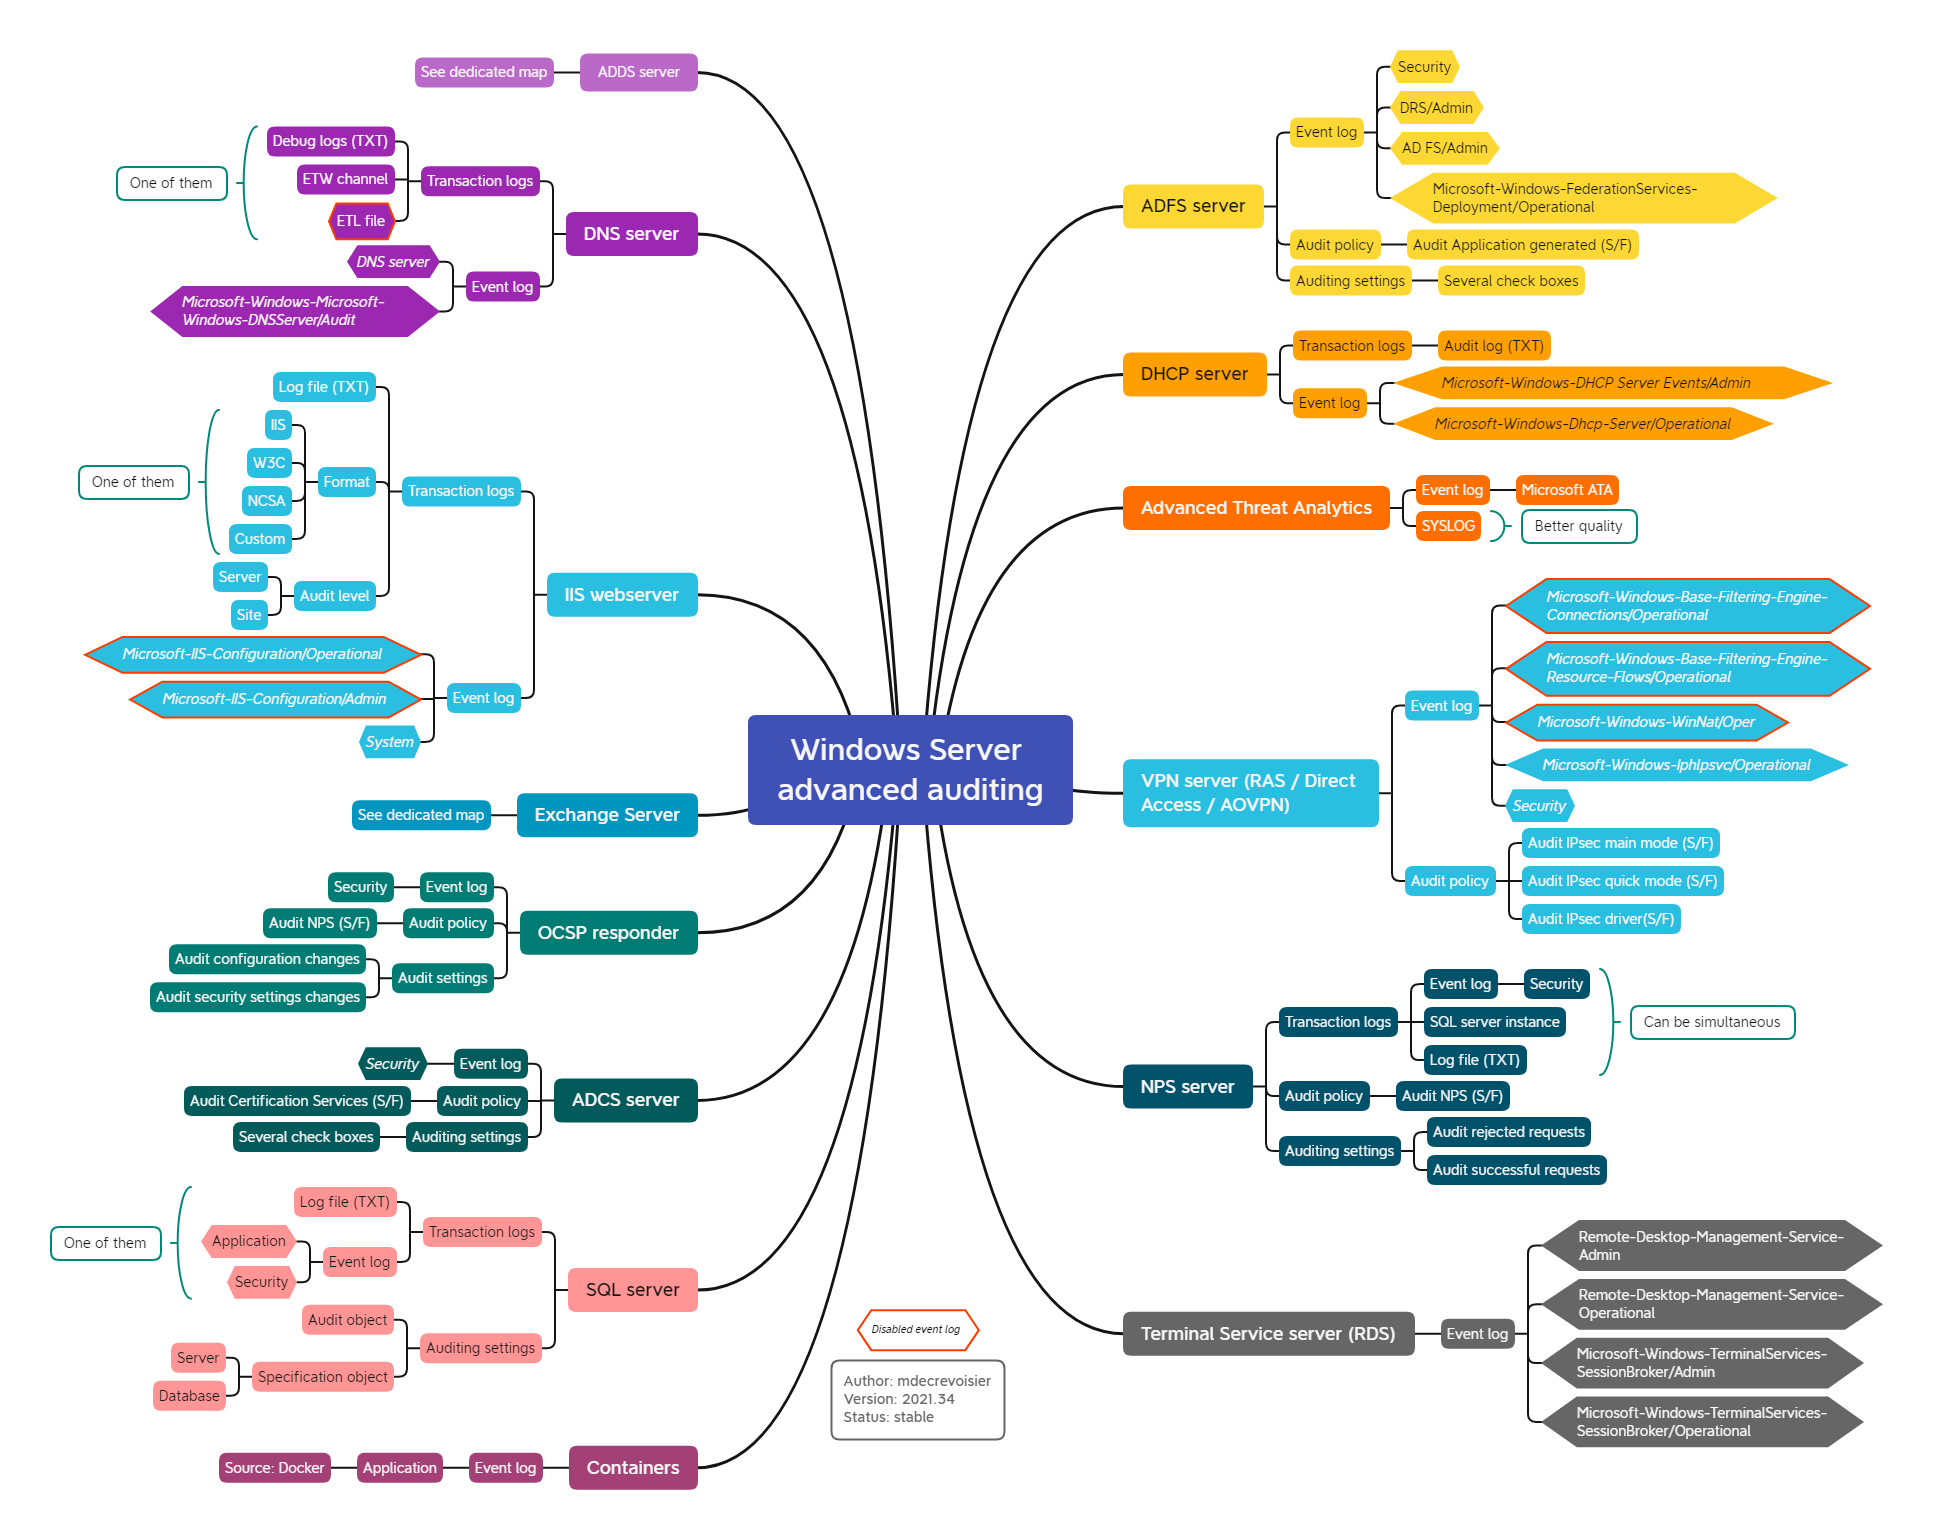
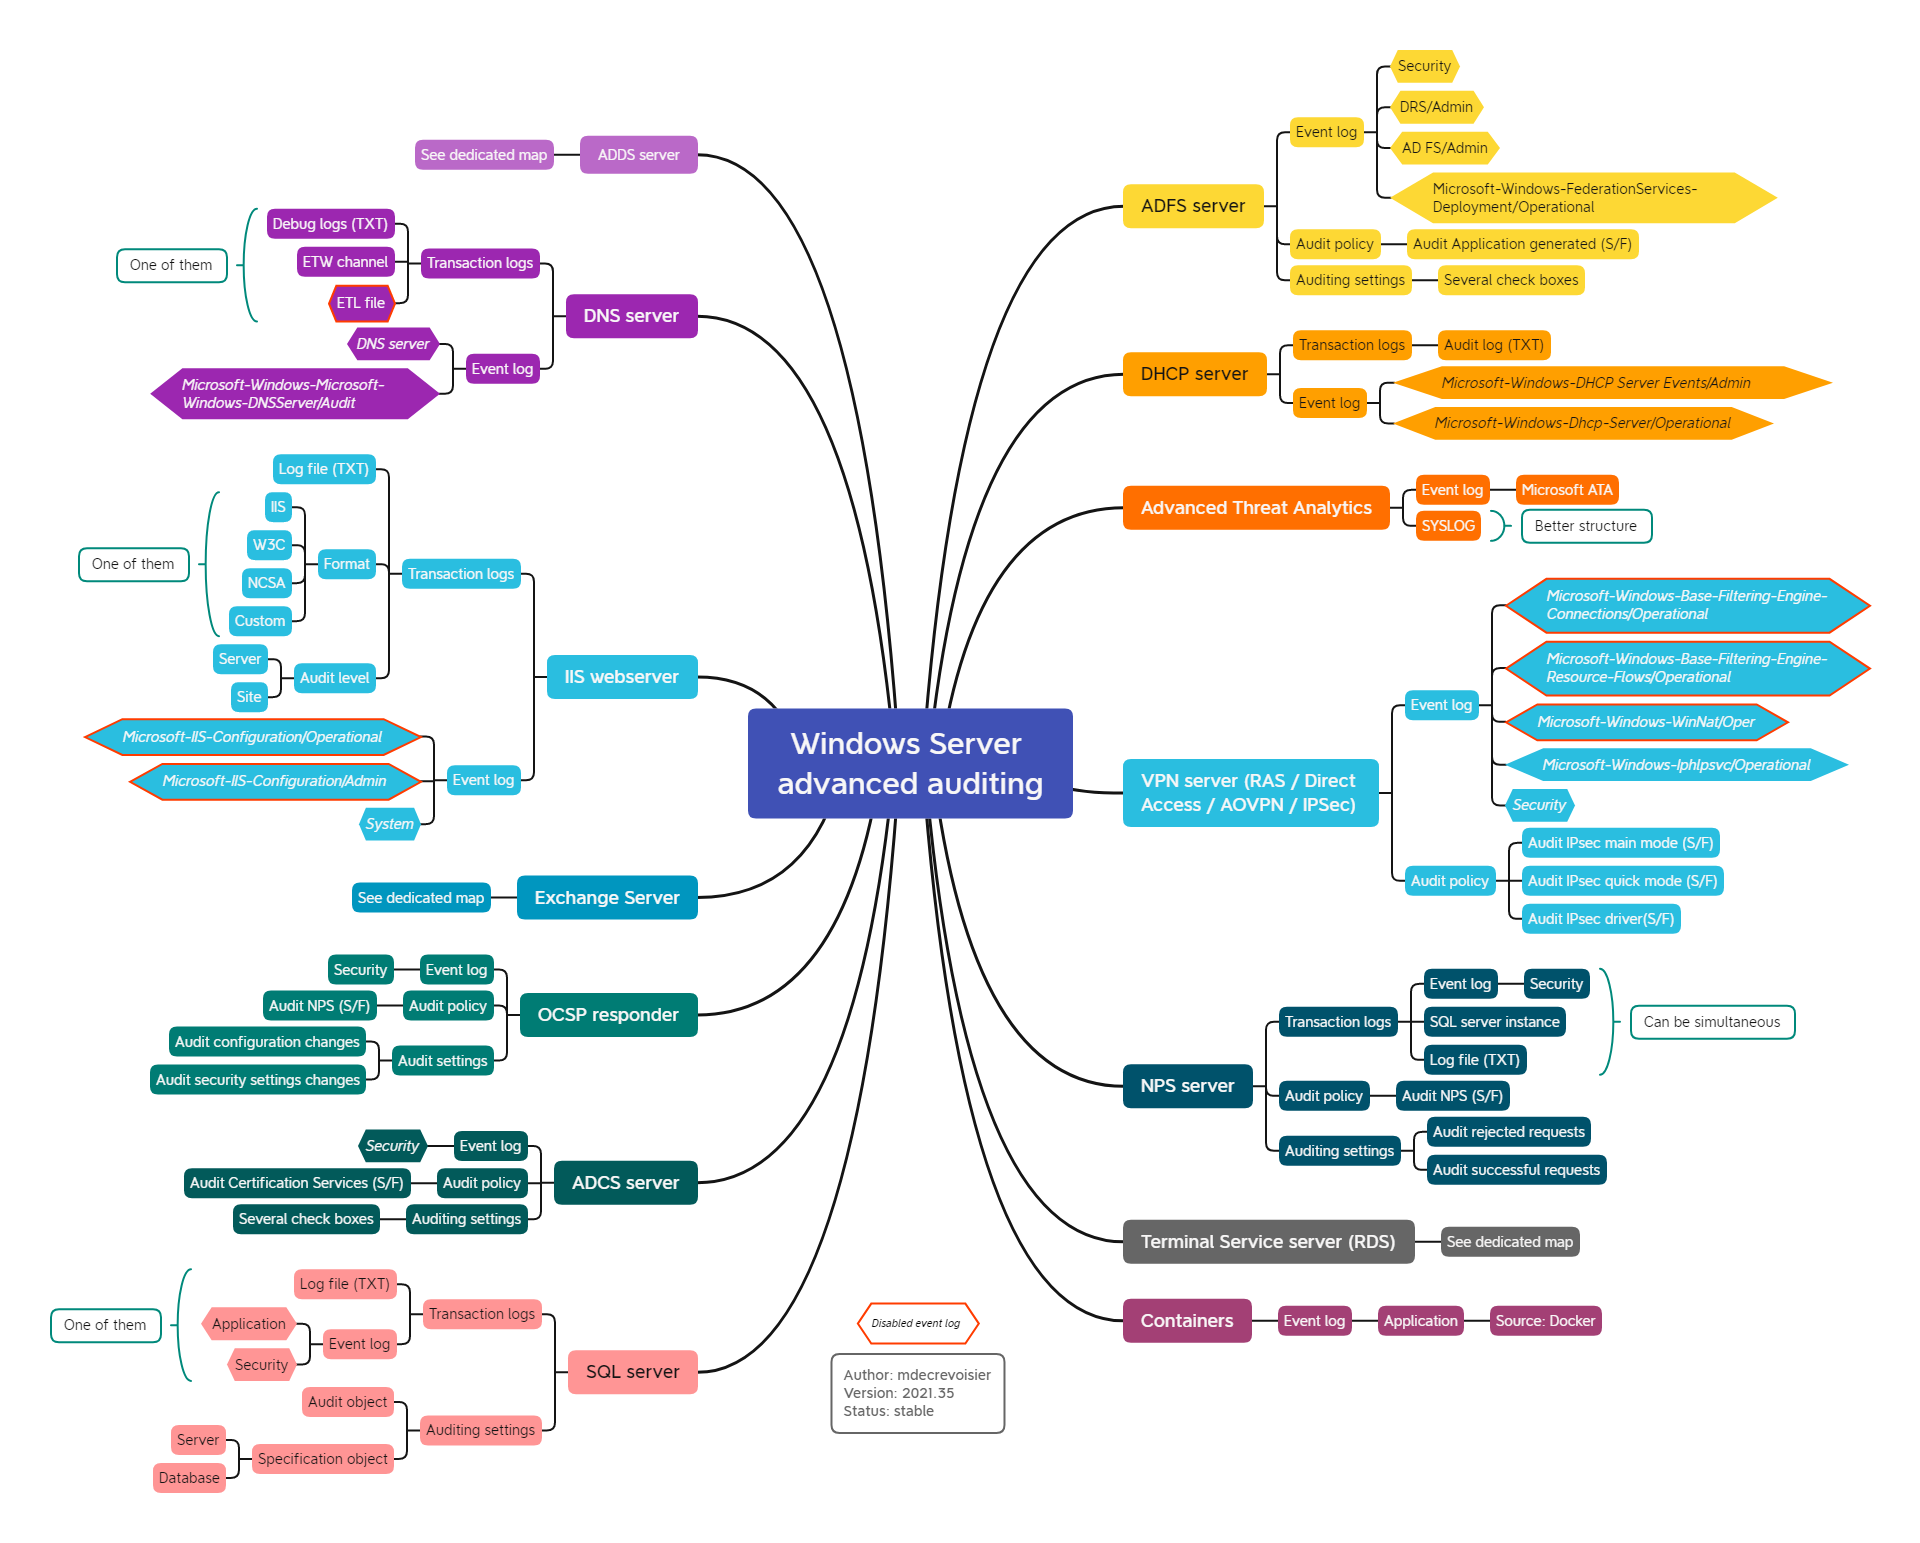
updated maps

Changed region(s): [[0.0312, 0.0312, 0.9688, 0.9662], [0.9062, 0.1247, 0.9375, 0.1558], [0.5312, 0.8104, 0.5625, 0.8416]]

diff --git a/README.md b/README.md
@@ -7,12 +7,15 @@
 * Forensic / DFIR
 * Troubleshooting
 
-## Mindmaps
+## Active mindmaps
 The following mindmaps are currently provided:
 * Windows OS auditing baseline
 * Windows Server roles auditing (also covers SQL Server and 
 Advanced Threat Analytics)
 * Active Directory (ADDS) auditing
+
+## Coming mindmaps
+* Remote Desktop / Terminal Services (in progress)
 * Exchange Server auditing (planned)
 * Azure (planned)
 
